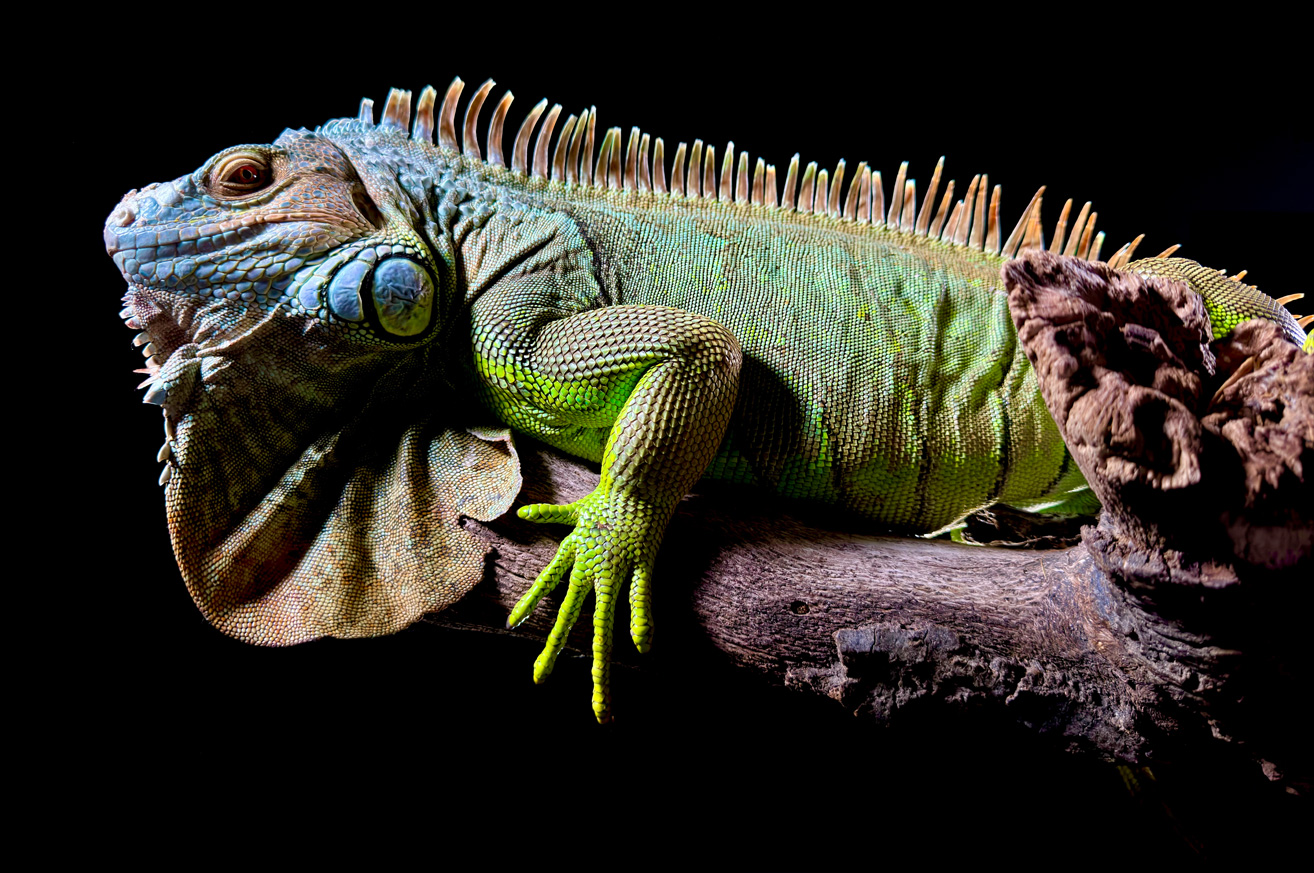
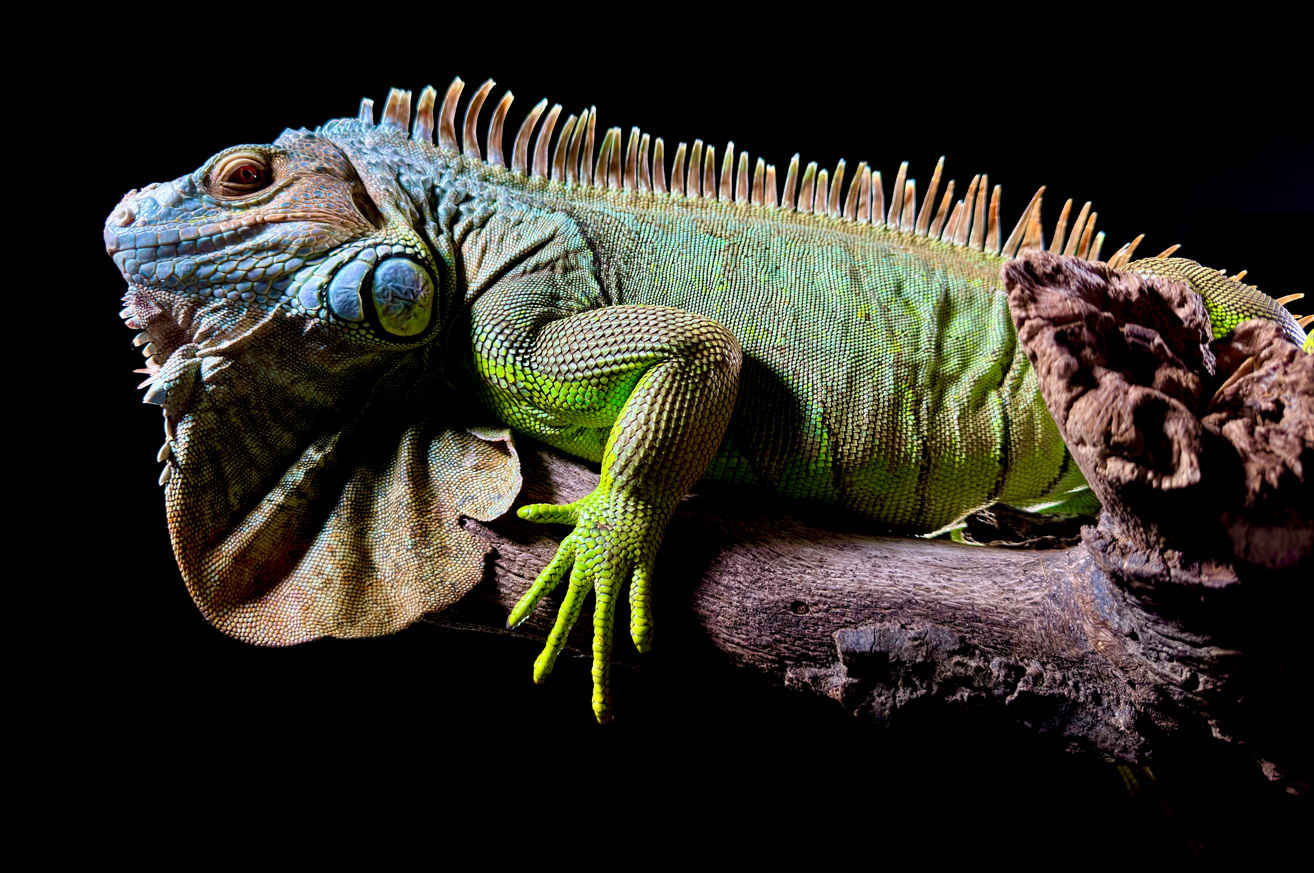
Optimize img

diff --git a/data.ts b/data.ts
@@ -16,7 +16,7 @@ export const secondarySliderSlides = [
 
 export const imageSection = [
   { id: 1, title: "Img 1", image: "/images/imageSection/img_1.jpg" },
-  { id: 2, title: "Img 2", image: "/images/imageSection/img_2.png" },
+  { id: 2, title: "Img 2", image: "/images/imageSection/img_2.jpg" },
   { id: 3, title: "Img 3", image: "/images/imageSection/img_1.jpg" },
 ];
 
